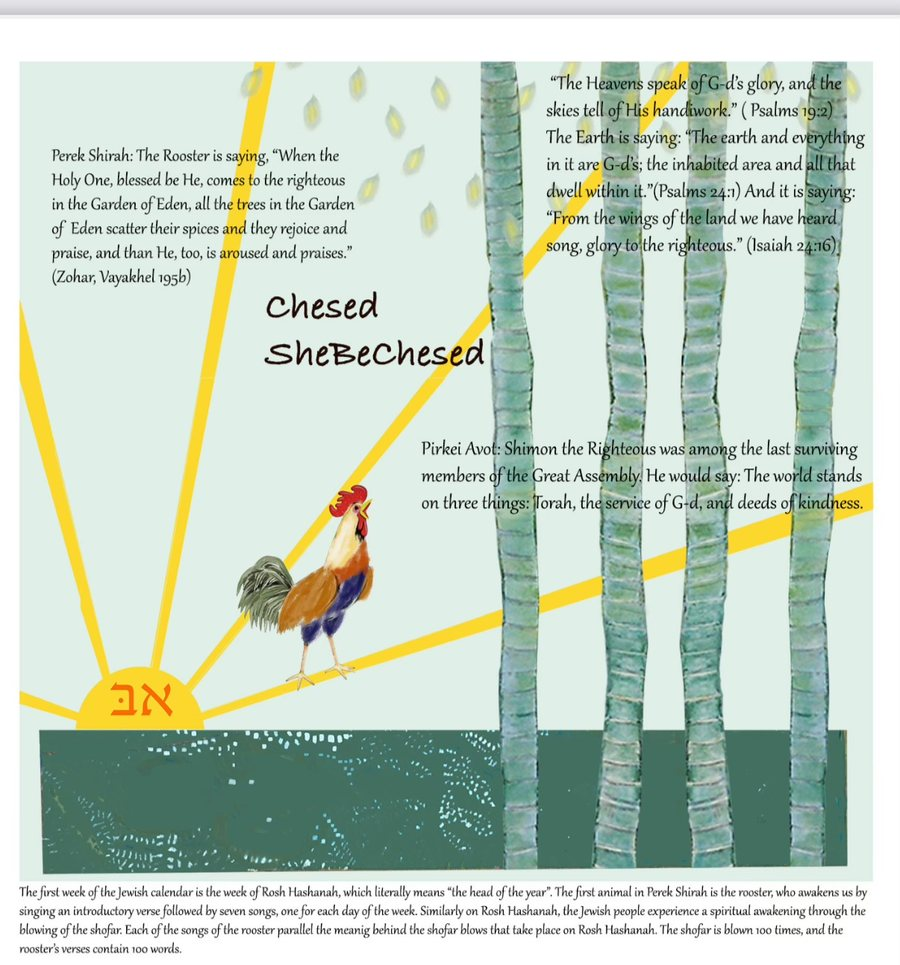
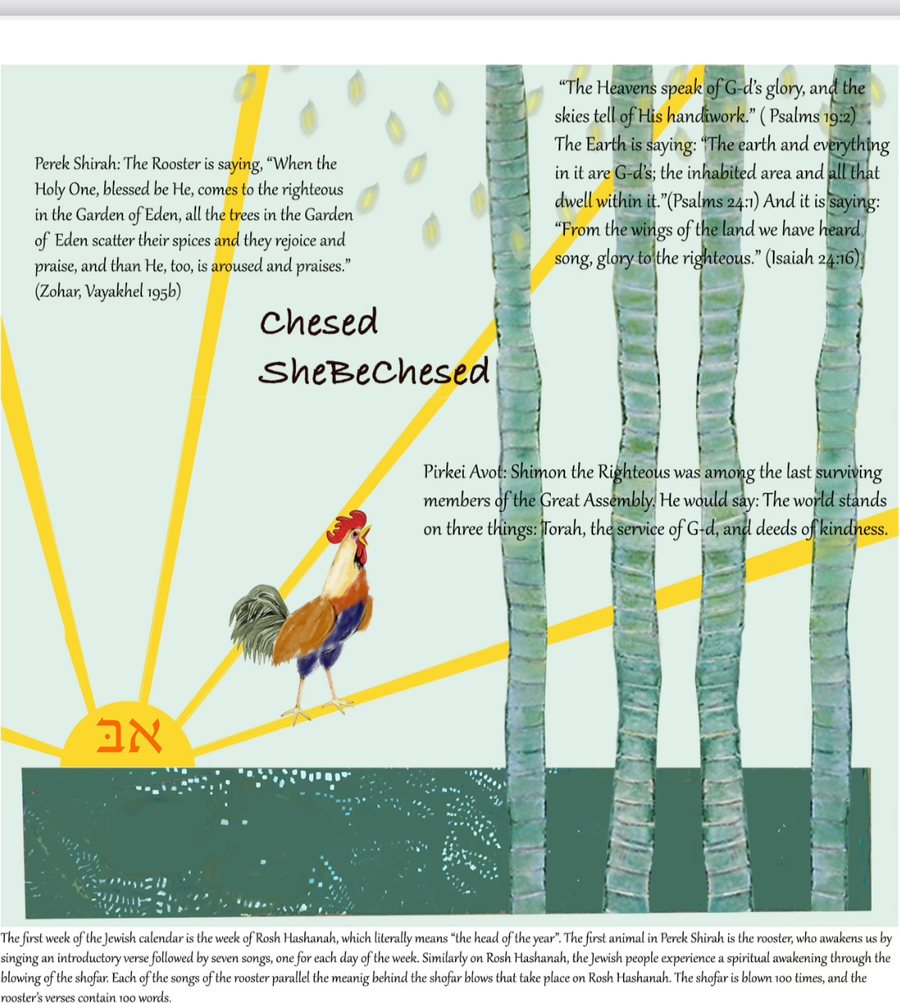
Trim the blank edges so the pages sit alike
The captures carried between nothing and 37px of white, differently on
each side, so consecutive weeks sat a few pixels apart on the page. Each
is now cropped to its own artwork — every one measures zero blank rows
and columns at all four edges — and rebuilt from the original upload
rather than from the compressed file, so nothing is squeezed twice.

Week 50 is the exception and is trimmed from the committed file: it
carries the Shirah repair, which regenerating would have undone. The
repair is intact.

The manifest's heights are rewritten to what each file now measures, and
every declared size matches its image, so nothing shifts as they load.

Claude-Session: https://claude.ai/code/session_01RS2FMfmK8R2uQnxc6BrjxF

diff --git a/index.html b/index.html
@@ -9758,14 +9758,14 @@ hr.wr-hr{border:none;border-top:1px solid var(--border);margin:14px 0;}
   // drawn size, because the pages are not all the same shape, and the space
   // has to be reserved before the image arrives or the title jumps.
   const WEEK_ART = {
-    '1':  [900, 965],
-    '2':  [900, 858],
-    '3':  [900, 855],
-    '4':  [900, 873],
-    '5':  [900, 867],
-    '50': [900, 895],
-    '51': [900, 842],
-    '52': [900, 865],
+    '1':   [900, 1003],
+    '2':   [900, 880],
+    '3':   [900, 861],
+    '4':   [900, 865],
+    '5':   [900, 908],
+    '50':  [900, 897],
+    '51':  [900, 868],
+    '52':  [900, 909],
   };
 
   // A leap year runs 56 weeks and the artwork runs 52, because weeks 22-25
